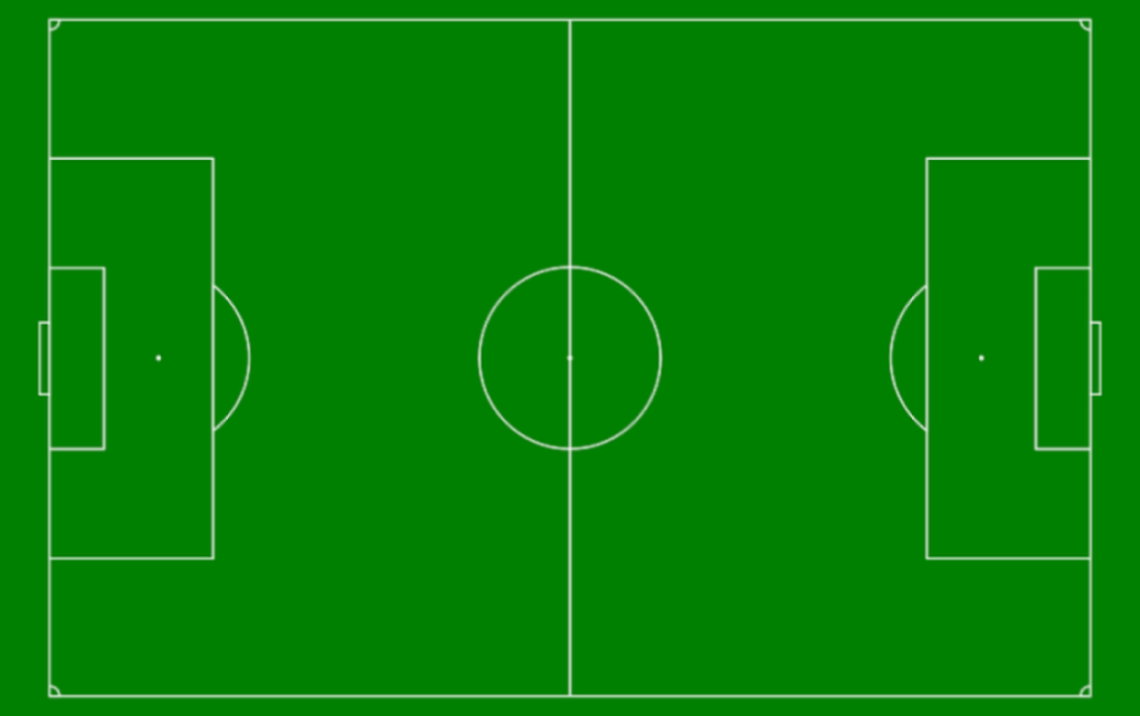
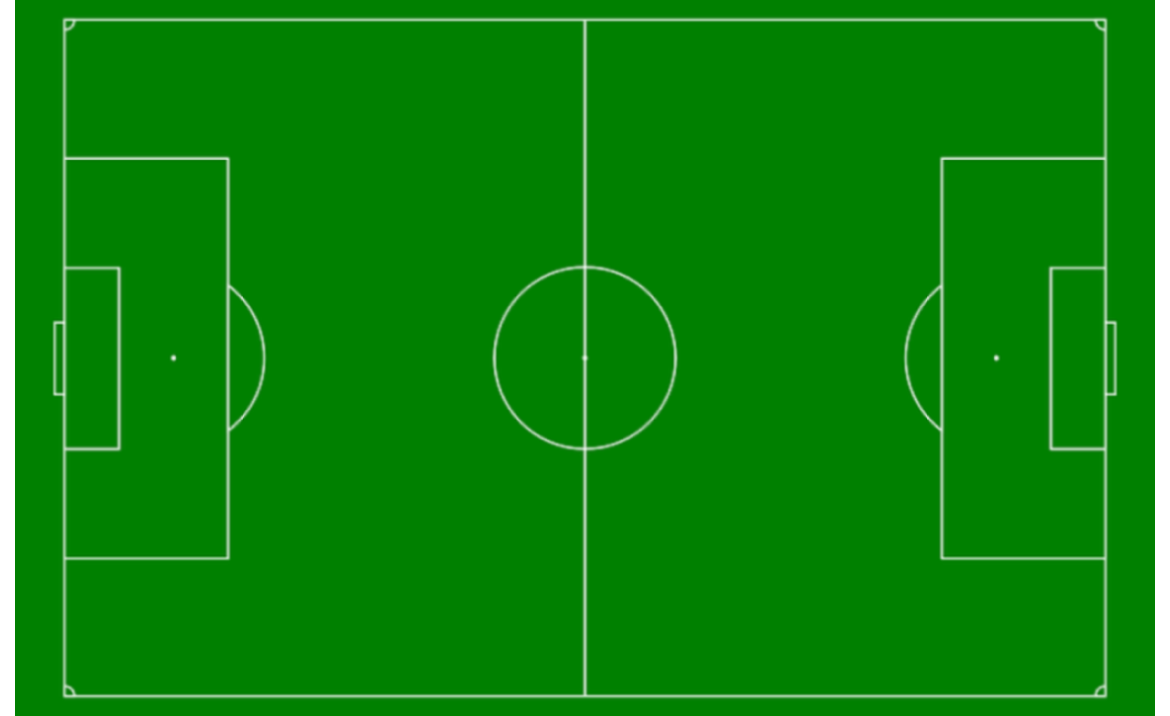
@ 이상하다 폴더가 안들어가네

diff --git a/Tactics/src/main/webapp/resources/css/tactics.css b/Tactics/src/main/webapp/resources/css/tactics.css
@@ -52,7 +52,7 @@
 
 .player-container {
 	position: relative;
-	width: 1140px;
+	width: 1170px;
 	height: 716px;
 	overflow: hidden;
 	background-image: url('/resources/images/field.png');
